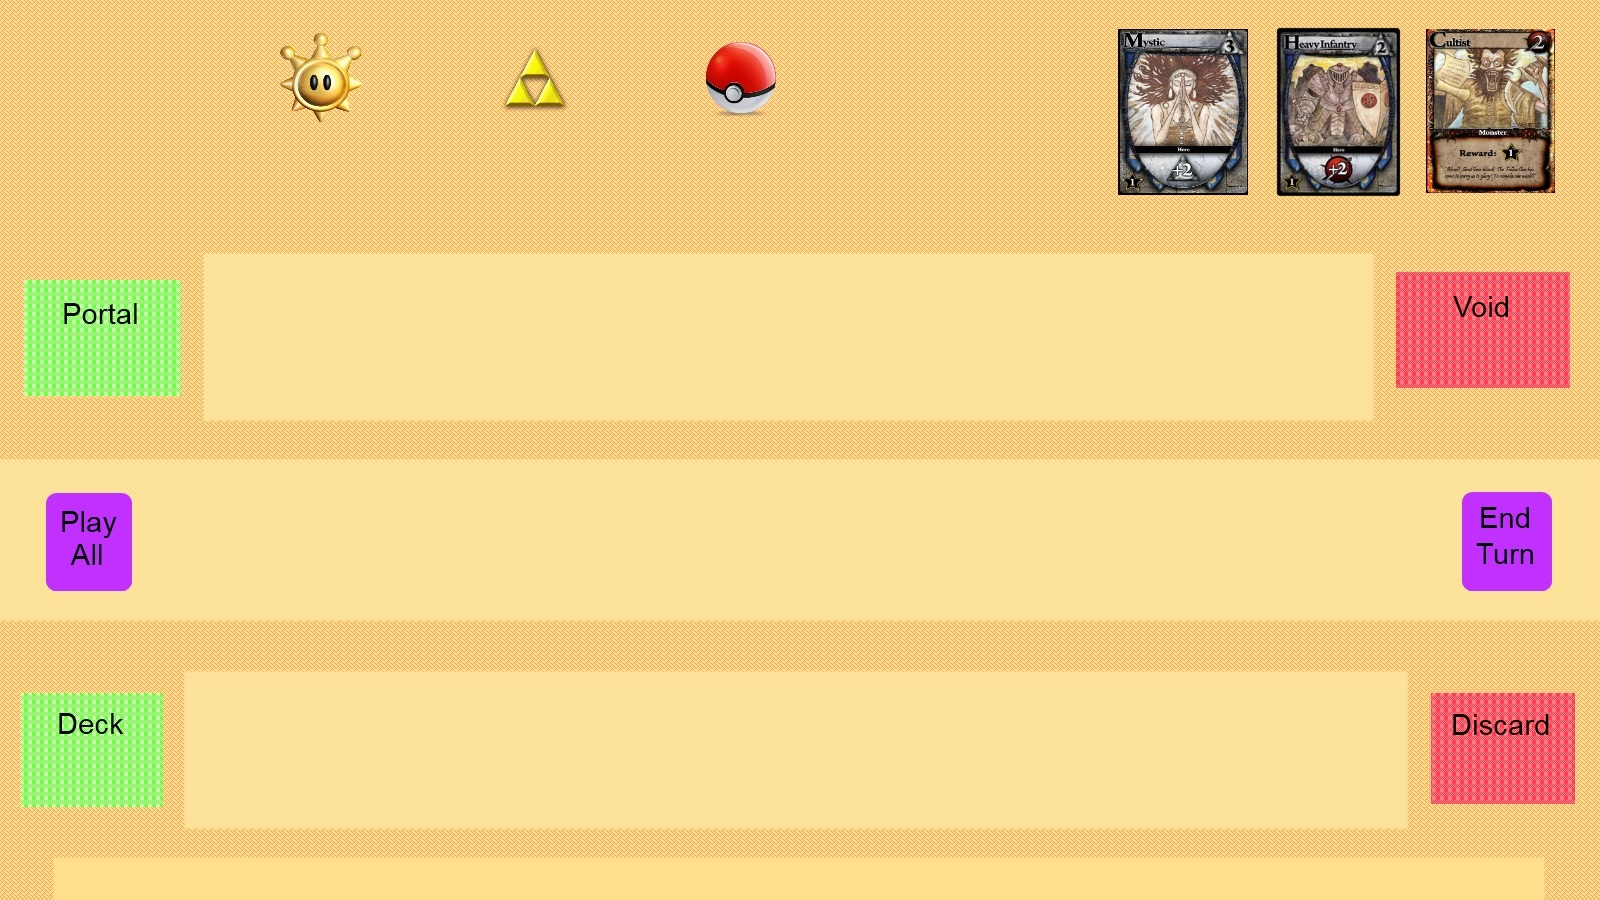
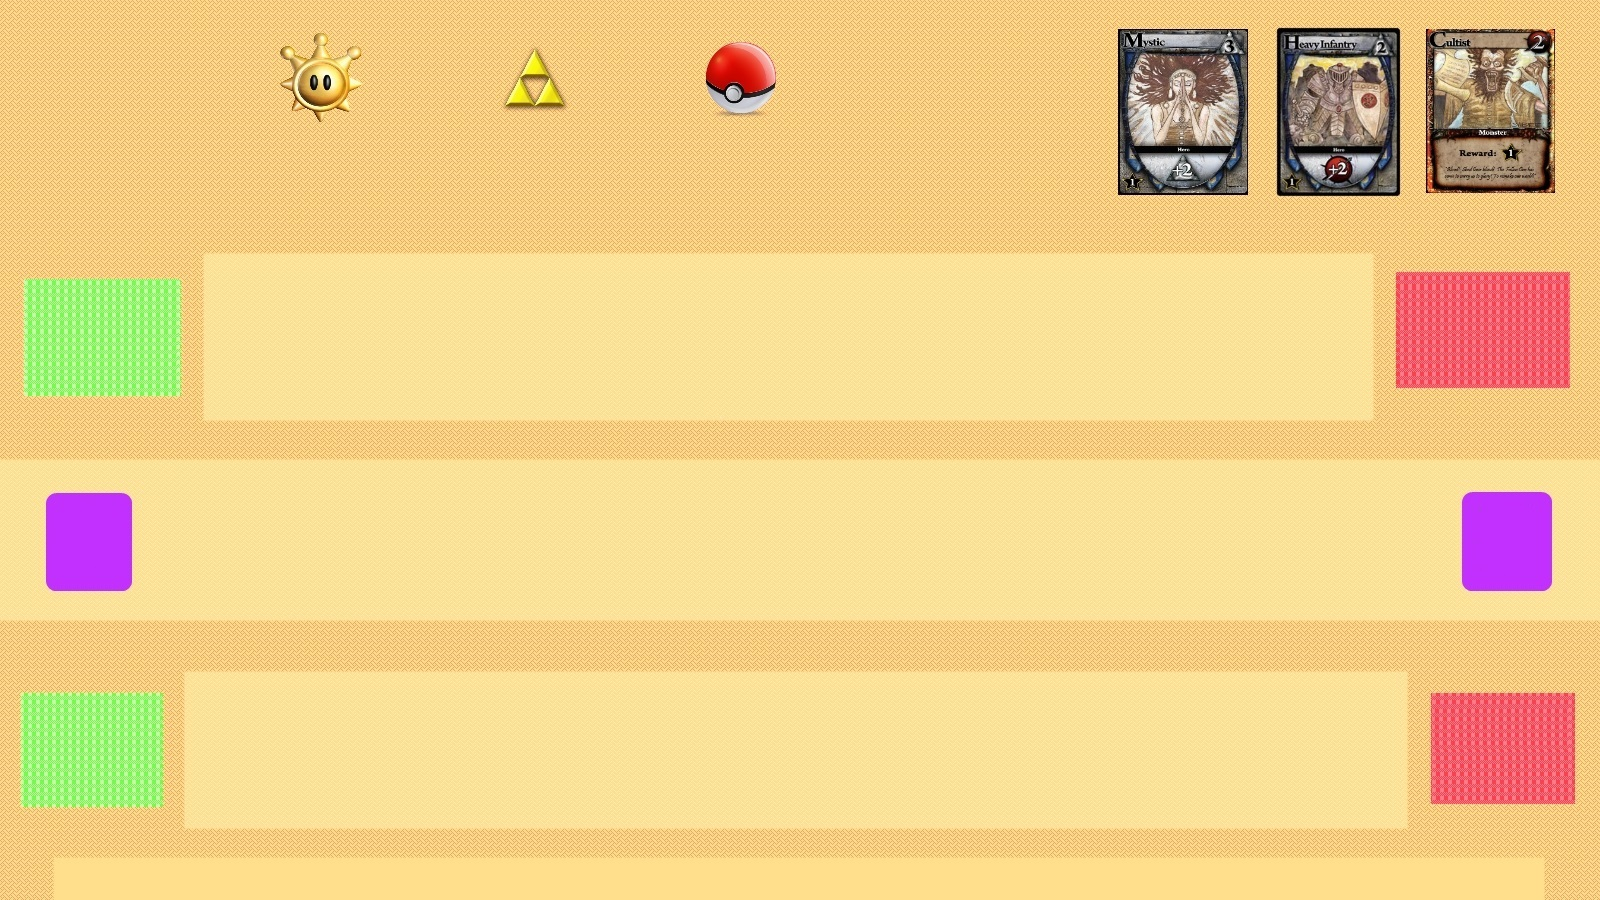
Set up internationalization for background

diff --git a/Ascension/src/Game.java b/Ascension/src/Game.java
@@ -36,9 +36,8 @@ public class Game extends JComponent {
 	boolean firstTurn;
 	JFrame discardFrame;
 	IOptionPane optionpane;
-
-	String country;
-	String language;
+	
+	ResourceBundle descriptions;
 
 	public static Rectangle handLoc = new Rectangle(184, 670, 1224, 160);
 	public static Rectangle playedLoc = new Rectangle(184, 460, 1224, 161);
@@ -154,7 +153,23 @@ public class Game extends JComponent {
 		if (this.discardFrame.isVisible()) {
 			this.discardFrame.getContentPane().repaint();
 		}
+		
+		//Draw the text over the buttons and stuff that was a part of the background
+		g2.setFont(new Font("TimesNewRoman", 20, 20));
+		printSimpleString(descriptions.getString("Portal"), 160, 25, 330,g2);
+		printSimpleString(descriptions.getString("Void"), 160, 1400, 330, g2);
+		printSimpleString(descriptions.getString("Play_All"), 95, 45, 565, g2);
+		printSimpleString(descriptions.getString("End_Turn"), 95, 1462, 565, g2);
+		printSimpleString(descriptions.getString("Deck"), 140, 32, 765, g2);
+		printSimpleString(descriptions.getString("Discard"), 140, 1430, 765, g2);
 	}
+	
+	private void printSimpleString(String s, int width, int XPos, int YPos, Graphics2D g2d){  
+        int stringLen = (int)  
+            g2d.getFontMetrics().getStringBounds(s, g2d).getWidth();  
+        int start = width/2 - stringLen/2;  
+        g2d.drawString(s, start + XPos, YPos);  
+	} 
 
 	protected void paintCard(Card c, Graphics2D g2) {
 		Rectangle loc = c.getLocation();
@@ -217,10 +232,6 @@ public class Game extends JComponent {
 		g2.setColor(Color.black);
 
 		// draw card description
-		Locale currentLocale = new Locale(this.language, this.country);
-		ResourceBundle descriptions = ResourceBundle.getBundle(
-				"CardDescription", currentLocale);
-
 		try {
 			g2.setColor(Color.black);
 			g2.setFont(new Font("TimesNewRoman", 10, 10));

diff --git a/Ascension/src/Main.java b/Ascension/src/Main.java
@@ -2,6 +2,8 @@ import java.awt.Rectangle;
 import java.io.File;
 import java.io.FileNotFoundException;
 import java.util.ArrayList;
+import java.util.Locale;
+import java.util.ResourceBundle;
 import java.util.Scanner;
 
 import javax.swing.JFrame;
@@ -233,24 +235,27 @@ public class Main {
 
 		ArrayList<Player> plays = new ArrayList<Player>();
 
-		Game g = new Game(100, plays, d);
-
 		Object[] objects = { "English", "Espanol", "Korean" };
 
-		int choice = opt.showOptionDialog(g, "Pick a Language", "",
+		int choice = opt.showOptionDialog(null, "Pick a Language", "",
 				JOptionPane.YES_NO_CANCEL_OPTION, JOptionPane.QUESTION_MESSAGE,
 				objects);
 
+		Locale currentLocale;
 		if (choice == JOptionPane.NO_OPTION) {
-			g.country = "SP";
-			g.language = "sp";
+			currentLocale = new Locale("sp", "SP");
 		} else if (choice == JOptionPane.CANCEL_OPTION) {
-			g.country = "KR";
-			g.language = "kr";
+			currentLocale = new Locale("kr", "KR");
 		} else {
-			g.country = "US";
-			g.language = "en";
+			currentLocale = new Locale("en", "US");
 		}
+
+		
+		ResourceBundle descriptions = ResourceBundle.getBundle(
+				"CardDescription", currentLocale);
+		
+		Game g = new Game(100, plays, d);
+		g.descriptions = descriptions;
 
 		String amount;
 
